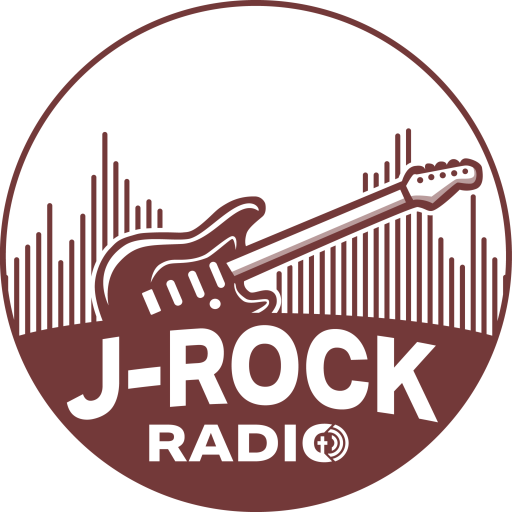
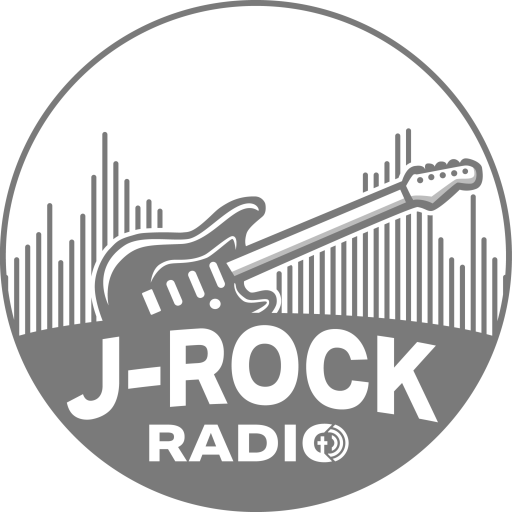
чтобы не было мерцания изменена default_cover.png

diff --git a/lib/widgets/audio_player_widget.dart b/lib/widgets/audio_player_widget.dart
@@ -262,10 +262,11 @@ class _AudioPlayerWidgetState extends State<AudioPlayerWidget> {
         _durationNotifier.value = duration;
       }
 
+      // Обновляем метаданные ТОЛЬКО если они реально изменились
       final newMetadata = _audioService.currentMetadata;
       if (_metadataNotifier.value != newMetadata) {
         _metadataNotifier.value = newMetadata;
-         _imageUpdateNotifier.value++;
+        _imageUpdateNotifier.value++; // <--- Оставляем ТОЛЬКО здесь
       }
     }
   }
@@ -612,48 +613,34 @@ class _AudioPlayerWidgetState extends State<AudioPlayerWidget> {
   // Бледная (серая) иконка радио для состояния "нет метаданных"
   Widget _buildRadioPlaceholder() {
     return Container(
-      color: AppColors.appBarBackground, // Темный фон
+      color: AppColors.appBarBackground,
       child: Center(
-        child: RepaintBoundary( // Защита от мерцания
-          child: ColorFiltered(
-            // Перекрашиваем красный в бледно-бирюзовый (или AppColors.customGrey)
-            colorFilter: ColorFilter.mode(
-              AppColors.customStyle.withValues(alpha: 0.5), 
-              BlendMode.color, // <-- Используем BlendMode.color
-            ),
-            child: Image.asset(
-              'assets/images/default_cover.png', // Ваша красная PNG
-              width: 60,
-              height: 60,
-              fit: BoxFit.contain,
-            ),
-          ),
+        child: Image.asset(
+          'assets/images/default_cover.png', 
+          width: 60,
+          height: 60,
+          fit: BoxFit.contain,
+          gaplessPlayback: true, // Защита от мерцания при обновлении
         ),
       ),
     );
   }
-  // Заглушка для подкаста (если у эпизода вообще нет картинки)
+
   Widget _buildDefaultCover() {
     return Container(
       color: AppColors.cardBackground,
       child: Center(
-        child: RepaintBoundary(
-          child: ColorFiltered(
-            colorFilter: ColorFilter.mode(
-              AppColors.customGrey.withValues(alpha: 0.6), // Серый цвет
-              BlendMode.color, // <-- Используем BlendMode.color
-            ),
-            child: Image.asset(
-              'assets/images/default_cover.png', // Ваша красная PNG
-              width: 60,
-              height: 60,
-              fit: BoxFit.contain,
-            ),
-          ),
+        child: Image.asset(
+          'assets/images/default_cover.png', 
+          width: 60,
+          height: 60,
+          fit: BoxFit.contain,
+          gaplessPlayback: true,
         ),
       ),
     );
   }
+
   Future<void> _playNextPodcast() async {
     try {
       await _audioService.playNextPodcast();
